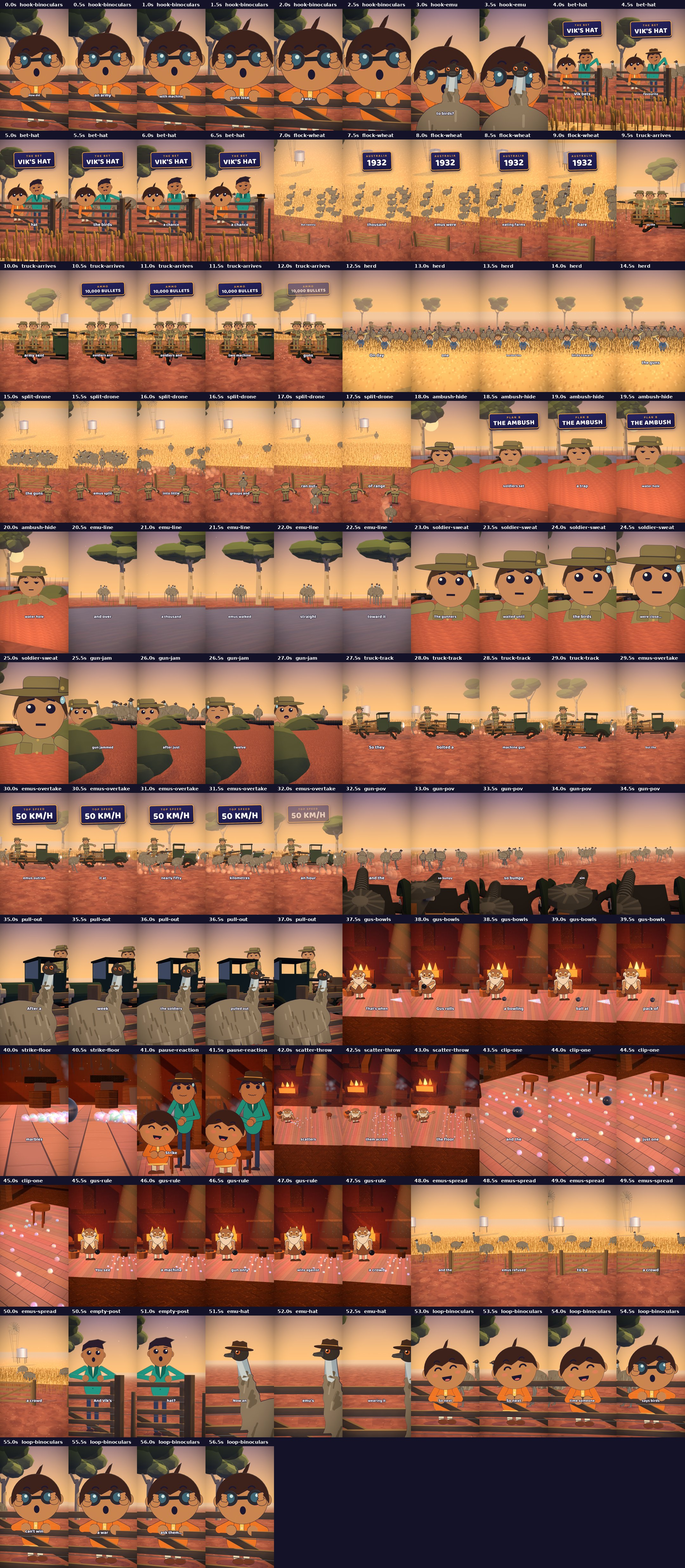
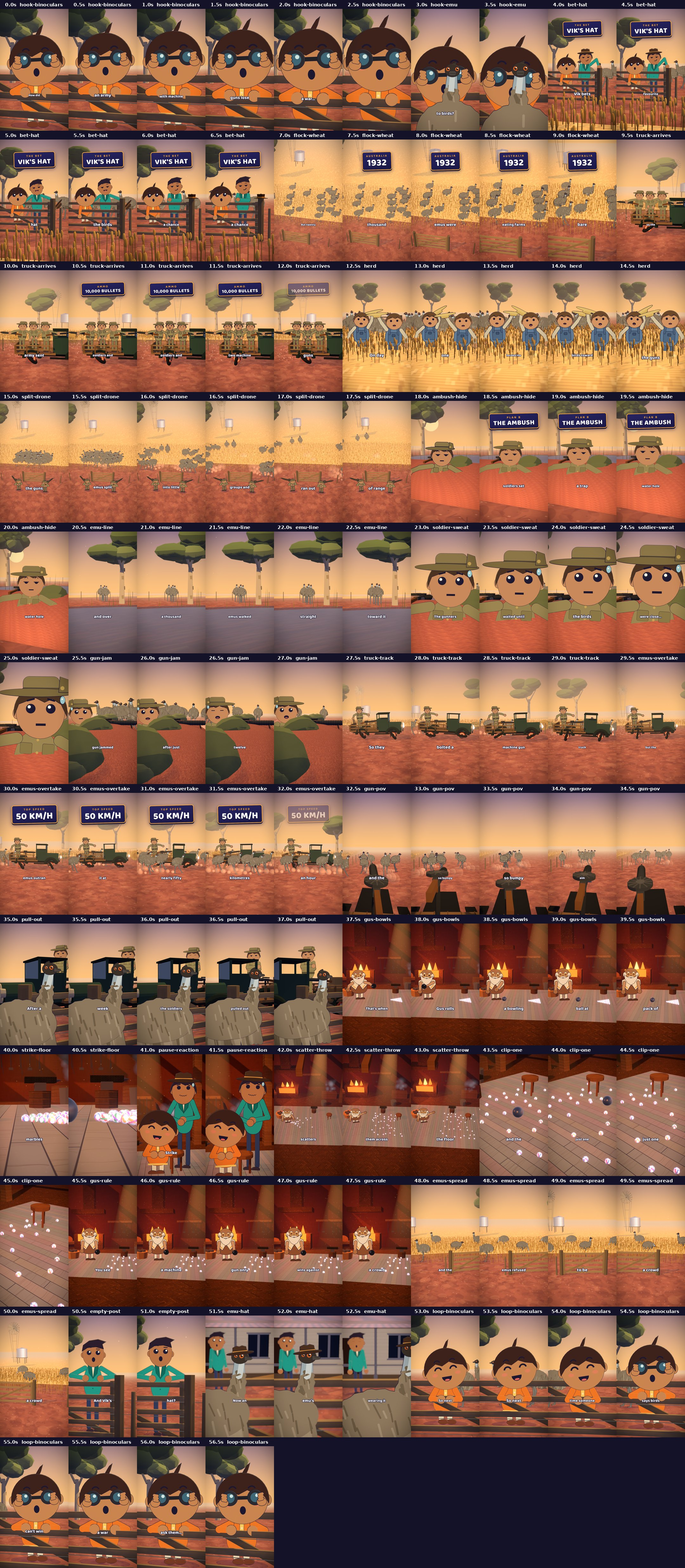
Short #4: POV tilted down (sky band under 40%); QA 0 flags incl. fix-round check
Claude-Session: https://claude.ai/code/session_01ScZZ5kgppFm3tiDYnvyiPP

diff --git a/scripts/shots_04_emu_war.py b/scripts/shots_04_emu_war.py
@@ -283,7 +283,7 @@ shots = [
   {"id": "gun-pov", "set": "farm",
    "fx": {"farm": {"truck": dict(CHASE_TRUCK, bedOnly=True, gunPost=[-0.9, 1.88, 0.0]), "scroll": SPEED, "wheatRect": [-30, 70, -9, -1.0],
                    "flocks": [{"n": 7, "center": [9, ROAD_Z - 0.4], "spread": [6, 3.2], "seed": 37, "vel": [REL * 0.5, 0], "gait": "run", "minDist": 1.4, "zigzag": 0.9}]}},
-   "camera": dolly([-2.75, 2.45, ROAD_Z + 0.12], [-2.65, 2.42, ROAD_Z + 0.1], [10, 1.95, ROAD_Z + 0.05], look_to=[10, 1.9, ROAD_Z - 0.3], fov=50),
+   "camera": dolly([-2.75, 2.45, ROAD_Z + 0.12], [-2.65, 2.42, ROAD_Z + 0.1], [10, 1.62, ROAD_Z + 0.05], look_to=[10, 1.58, ROAD_Z - 0.3], fov=50),
    "shake": 0.05,
    "sfx": [{"name": "truck-engine", "at": 0, "dur": round(dur("gun-pov"), 2), "gain": -2}]},
   # 8 after a week, the soldiers pulled out: loading the truck; one emu watches from the fence and blinks
